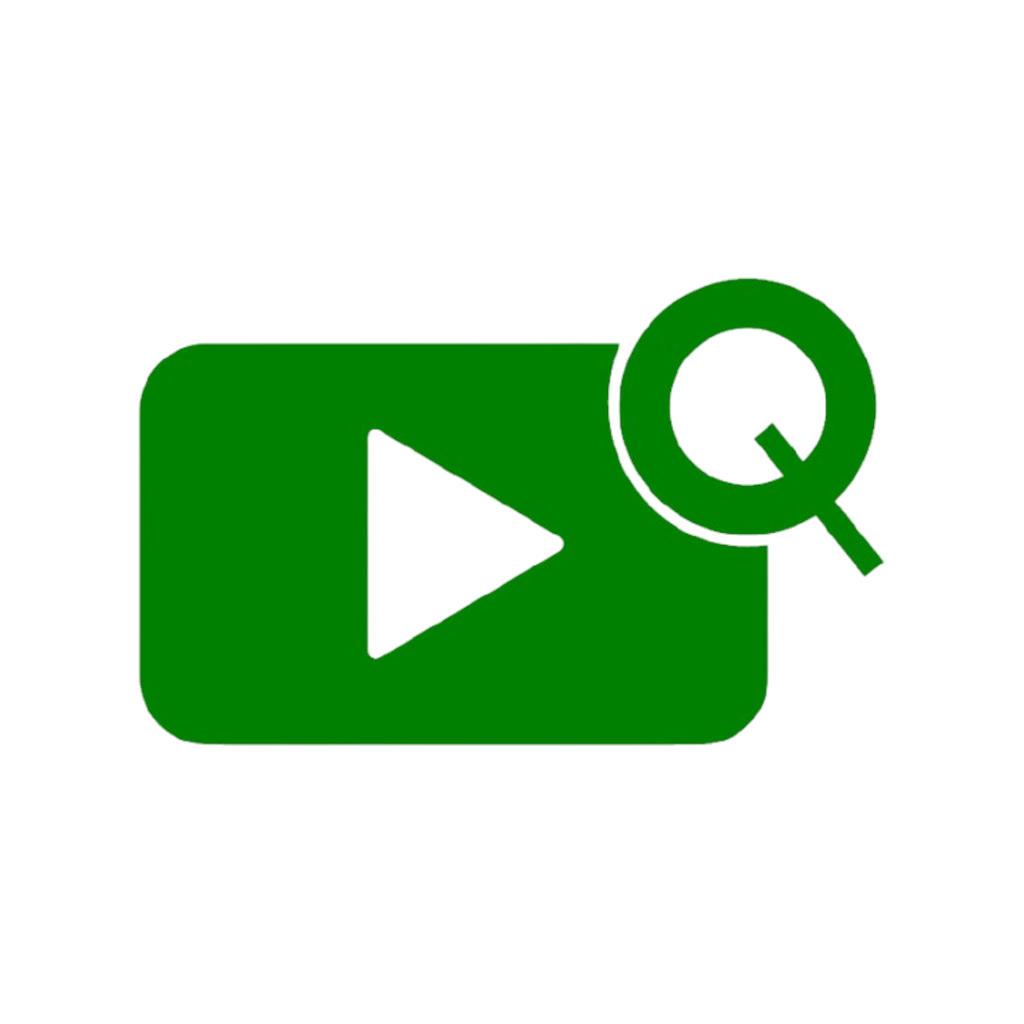
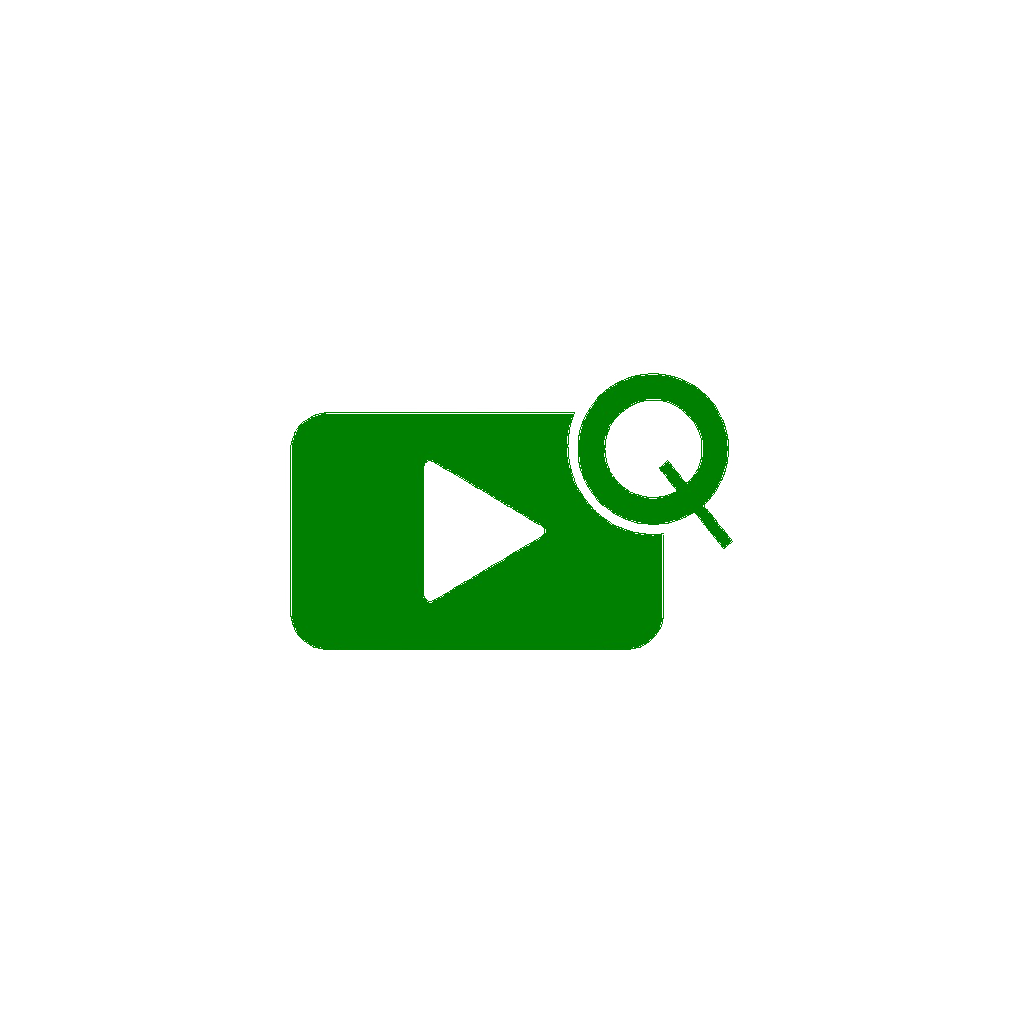
fix: updated the todo.md-last

Changed region(s): [[0.125, 0.25, 0.875, 0.75]]

diff --git a/app/call/[roomId].tsx b/app/call/[roomId].tsx
@@ -11,6 +11,7 @@ import {
 import { Ionicons } from "@expo/vector-icons";
 import { router, useLocalSearchParams } from "expo-router";
 import Toast from "react-native-toast-message";
+import { Audio } from "expo-av";
 import {
   Room,
   RoomEvent,
@@ -107,6 +108,19 @@ export default function CallScreen() {
 
   const endingRef = useRef(false);
   const acceptHandlerRef = useRef<() => Promise<void>>(async () => {});
+
+  // ── Outgoing ringtone (for the caller while the callee hasn't answered) ───
+  const outgoingRingtoneRef = useRef<Audio.Sound | null>(null);
+  const stopOutgoingRingtone = useCallback(async () => {
+    const sound = outgoingRingtoneRef.current;
+    if (sound) {
+      outgoingRingtoneRef.current = null;
+      try {
+        await sound.stopAsync();
+        await sound.unloadAsync();
+      } catch {}
+    }
+  }, []);
 
   // ── Session initialization ────────────────────────────────────────────────
   // OPT-8: If the incoming-call-overlay already accepted the call and stored
@@ -291,6 +305,35 @@ export default function CallScreen() {
     connectToRoom,
   ]);
 
+  // ── Outgoing ringtone: play while RINGING for the caller ───────────────
+  useEffect(() => {
+    if (!session || !userId) return;
+
+    const isCaller = session.callerId === userId;
+
+    if (session.status === "RINGING" && isCaller) {
+      const play = async () => {
+        try {
+          const { sound } = await Audio.Sound.createAsync(
+            require("../../assets/sounds/outgoing_ringtone.mp3"),
+            { isLooping: true, volume: 1.0 },
+          );
+          outgoingRingtoneRef.current = sound;
+        } catch (err) {
+          console.warn("[call] Failed to play outgoing ringtone:", err);
+        }
+      };
+      play();
+    } else {
+      // Status changed away from RINGING — stop the ringtone
+      stopOutgoingRingtone();
+    }
+
+    return () => {
+      stopOutgoingRingtone();
+    };
+  }, [session?.status, session?.callerId, userId, stopOutgoingRingtone]);
+
   const handleRetry = useCallback(() => {
     connectionBlockedRef.current = false;
     connectingRef.current = false;
@@ -301,6 +344,7 @@ export default function CallScreen() {
   // ── Cleanup room on unmount ───────────────────────────────────────────────
   useEffect(() => {
     return () => {
+      stopOutgoingRingtone();
       const room = roomRef.current;
       if (room) {
         // Remove all listeners first to prevent Disconnected handler from firing
@@ -311,7 +355,7 @@ export default function CallScreen() {
       }
       roomRef.current = null;
     };
-  }, []);
+  }, [stopOutgoingRingtone]);
 
   // ── Channel timer countdown ───────────────────────────────────────────────
   useEffect(() => {
@@ -442,6 +486,7 @@ export default function CallScreen() {
 
   const handleEnd = async () => {
     if (!session || endingRef.current) return;
+    stopOutgoingRingtone();
     endingRef.current = true;
     setIsEnding(true);
     endCallKeepCall(session.callSessionId);

diff --git a/components/calls/incoming-call-overlay.tsx b/components/calls/incoming-call-overlay.tsx
@@ -10,6 +10,7 @@ import {
 } from "react-native";
 import { Ionicons } from "@expo/vector-icons";
 import { router } from "expo-router";
+import { Audio } from "expo-av";
 
 import { useAppDispatch, useAppSelector } from "@/hooks/redux";
 import { clearIncomingCall } from "@/store/slices/incomingCallSlice";
@@ -17,6 +18,7 @@ import { api } from "@/lib/api";
 import {
   displayIncomingCall,
   reportCallConnected,
+  endCallKeepCall,
   preAcceptedCallRef,
   overlayActiveRef,
 } from "@/lib/callkeep-setup";
@@ -29,15 +31,27 @@ export function IncomingCallOverlay() {
   const call = useAppSelector((s) => s.incomingCall.call);
   const pulseAnim = useRef(new Animated.Value(1)).current;
   const dismissTimer = useRef<ReturnType<typeof setTimeout> | null>(null);
+  const ringtoneSoundRef = useRef<Audio.Sound | null>(null);
+
+  const stopRingSound = useCallback(async () => {
+    if (ringtoneSoundRef.current) {
+      try {
+        await ringtoneSoundRef.current.stopAsync();
+        await ringtoneSoundRef.current.unloadAsync();
+      } catch {}
+      ringtoneSoundRef.current = null;
+    }
+  }, []);
 
   const stopRing = useCallback(() => {
     Vibration.cancel();
     pulseAnim.stopAnimation();
+    void stopRingSound();
     if (dismissTimer.current) {
       clearTimeout(dismissTimer.current);
       dismissTimer.current = null;
     }
-  }, [pulseAnim]);
+  }, [pulseAnim, stopRingSound]);
 
   const dismiss = useCallback(() => {
     stopRing();
@@ -50,8 +64,29 @@ export function IncomingCallOverlay() {
     // Signal to CallKeep answerCall handler: don't navigate, overlay handles it
     overlayActiveRef.current = true;
 
+    // Set audio mode for calls — play through speaker even in silent mode
+    Audio.setAudioModeAsync({
+      playsInSilentModeIOS: true,
+      staysActiveInBackground: true,
+      shouldDuckAndroid: true,
+      playThroughEarpieceAndroid: false,
+    }).catch(() => {});
+
     // Show native call UI (lock screen / background)
     displayIncomingCall(call.callSessionId, call.callerName, call.mode === "VIDEO");
+
+    // Play incoming ringtone
+    (async () => {
+      try {
+        const { sound } = await Audio.Sound.createAsync(
+          require("../../assets/sounds/incoming_ringtone.mp3"),
+          { shouldPlay: true, isLooping: true },
+        );
+        ringtoneSoundRef.current = sound;
+      } catch (err) {
+        console.warn("[incoming-call] Failed to play ringtone:", err);
+      }
+    })();
 
     // Vibrate in ring pattern
     Vibration.vibrate(RING_PATTERN, true);
@@ -81,6 +116,7 @@ export function IncomingCallOverlay() {
       overlayActiveRef.current = false;
       pulse.stop();
       stopRing();
+      void stopRingSound();
     };
   }, [call, pulseAnim, dismiss, stopRing]);
 

diff --git a/app/settings/call-settings.tsx b/app/settings/call-settings.tsx
@@ -73,6 +73,16 @@ const RINGTONE_OPTIONS = [
     label: "Twilight Gong",
     description: "A deep resonant gong hit with a long, fading decay.",
   },
+  {
+    value: "incoming_ringtone",
+    label: "Incoming Call",
+    description: "A clear ringing tone for incoming calls.",
+  },
+  {
+    value: "outgoing_ringtone",
+    label: "Outgoing Call",
+    description: "A steady ringback tone while your call connects.",
+  },
 ] as const;
 
 type CallRingtone = (typeof RINGTONE_OPTIONS)[number]["value"];
@@ -85,8 +95,8 @@ type CallSettings = {
 
 const DEFAULT: CallSettings = {
   silentIncomingCalls: false,
-  incomingRingtone: "aria",
-  outgoingRingtone: "reverie",
+  incomingRingtone: "incoming_ringtone",
+  outgoingRingtone: "outgoing_ringtone",
 };
 
 function ringtoneLabel(value: string) {
@@ -397,7 +407,11 @@ export default function CallSettingsScreen() {
       setPreviewing(ringtone);
       try {
         await setAudioModeAsync({ playsInSilentMode: true });
-        const player = createAudioPlayer(`${API_BASE_URL}/sounds/${ringtone}.wav`);
+        const ext =
+          ringtone === "incoming_ringtone" || ringtone === "outgoing_ringtone"
+            ? "mp3"
+            : "wav";
+        const player = createAudioPlayer(`${API_BASE_URL}/sounds/${ringtone}.${ext}`);
         soundRef.current = player;
         player.play();
         const subscription = player.addListener("playbackStatusUpdate", (status) => {

diff --git a/lib/push-notifications.ts b/lib/push-notifications.ts
@@ -63,13 +63,14 @@ async function setupAndroidChannels() {
     importance: Notifications.AndroidImportance.MAX,
     vibrationPattern: [0, 250, 250, 250],
     lightColor: "#3B82F6",
-    sound: "default",
+    sound: "notification_sound",
   });
   await Notifications.setNotificationChannelAsync("questions", {
     name: "Question Updates",
     importance: Notifications.AndroidImportance.HIGH,
     vibrationPattern: [0, 250, 250, 250],
     lightColor: "#3B82F6",
+    sound: "notification_sound",
   });
   await Notifications.setNotificationChannelAsync("calls", {
     name: "Incoming Calls",
@@ -78,18 +79,20 @@ async function setupAndroidChannels() {
     lightColor: "#22c55e",
     enableLights: true,
     enableVibrate: true,
-    sound: "default",
+    sound: "notification_sound",
   });
   await Notifications.setNotificationChannelAsync("wallet", {
     name: "Wallet & Payments",
     importance: Notifications.AndroidImportance.DEFAULT,
     lightColor: "#F59E0B",
+    sound: "notification_sound",
   });
   await Notifications.setNotificationChannelAsync("default", {
     name: "General",
     importance: Notifications.AndroidImportance.DEFAULT,
     vibrationPattern: [0, 250, 250, 250],
     lightColor: "#3B82F6",
+    sound: "notification_sound",
   });
 }
 

diff --git a/lib/mobile-auth-session.ts b/lib/mobile-auth-session.ts
@@ -40,8 +40,8 @@ function buildFallbackUser(user: MobileAuthUser): AppUser {
     seenOnboardingRoles: [],
     callSettings: {
       silentIncomingCalls: false,
-      incomingRingtone: "default",
-      outgoingRingtone: "default",
+      incomingRingtone: "incoming_ringtone",
+      outgoingRingtone: "outgoing_ringtone",
     },
   };
 }